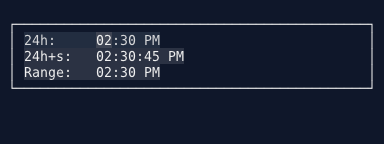
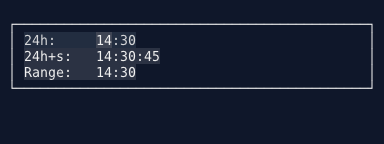
Make the gallery say the same thing on every machine
The first CI run of the new gates failed, and both failures were mine.

The link check ran before DocFX. docs/docfx/_site is gitignored, so it exists
on a developer's machine and never on a fresh runner, and the site build
copies it to _site/api/ when present and skips it when not. The checker was
therefore handed a site with no API reference and correctly reported every
page's "API" nav link as broken: 111 pages, 111 links, every one of them fine
in the site that actually deploys. It passed locally only because a leftover
build was sitting there. DocFX now runs first, so the checker sees what a
visitor sees.

TimePicker photographed differently on the runner because it reads
CultureInfo.CurrentCulture and decides 12h vs 24h from the locale's
ShortTimePattern. This machine has LC_TIME=el_GR and renders 24-hour; a runner
is en_US and renders 12-hour with an AM/PM segment - different text, different
widths, a different picture. The gallery now pins InvariantCulture before any
control is built, which covers DatePicker's identical exposure and anything
added later.

Verified by running the gallery under en_US and el_GR: all 38 images
byte-identical across both, where TimePicker and DatePicker previously
differed. The committed TimePicker shot was rendered under the Greek locale,
so it is regenerated here.

Changed region(s): [[0.3438, 0.3333, 0.5, 0.5556], [0.25, 0.2222, 0.3125, 0.5556], [0.375, 0.2222, 0.4375, 0.3056]]

diff --git a/Examples/Gallery/Program.cs b/Examples/Gallery/Program.cs
@@ -6,6 +6,7 @@
 // License: MIT
 // -----------------------------------------------------------------------
 
+using System.Globalization;
 using System.Net.Sockets;
 using System.Text;
 using System.Text.Json.Nodes;
@@ -29,6 +30,17 @@ using SharpConsoleUI.Drivers;
 // to normal startup and takes "--pty-shim" for an output directory, which is
 // exactly how a folder of that name once appeared in the repo root.
 if (SharpConsoleUI.PtyShim.RunIfShim(args)) return 127;
+
+// Pin the culture before any control is built. TimePicker and DatePicker read
+// CultureInfo.CurrentCulture - the time picker decides 12h vs 24h from the
+// locale's ShortTimePattern - so the same code photographs differently on a
+// machine set to el_GR than on a CI runner set to en_US: different text,
+// different widths, a different picture. Invariant is 24-hour, so the shot is
+// the same everywhere and a byte comparison means what it claims to.
+CultureInfo.DefaultThreadCurrentCulture = CultureInfo.InvariantCulture;
+CultureInfo.DefaultThreadCurrentUICulture = CultureInfo.InvariantCulture;
+CultureInfo.CurrentCulture = CultureInfo.InvariantCulture;
+CultureInfo.CurrentUICulture = CultureInfo.InvariantCulture;
 
 const string Theme = "Slate";
 
